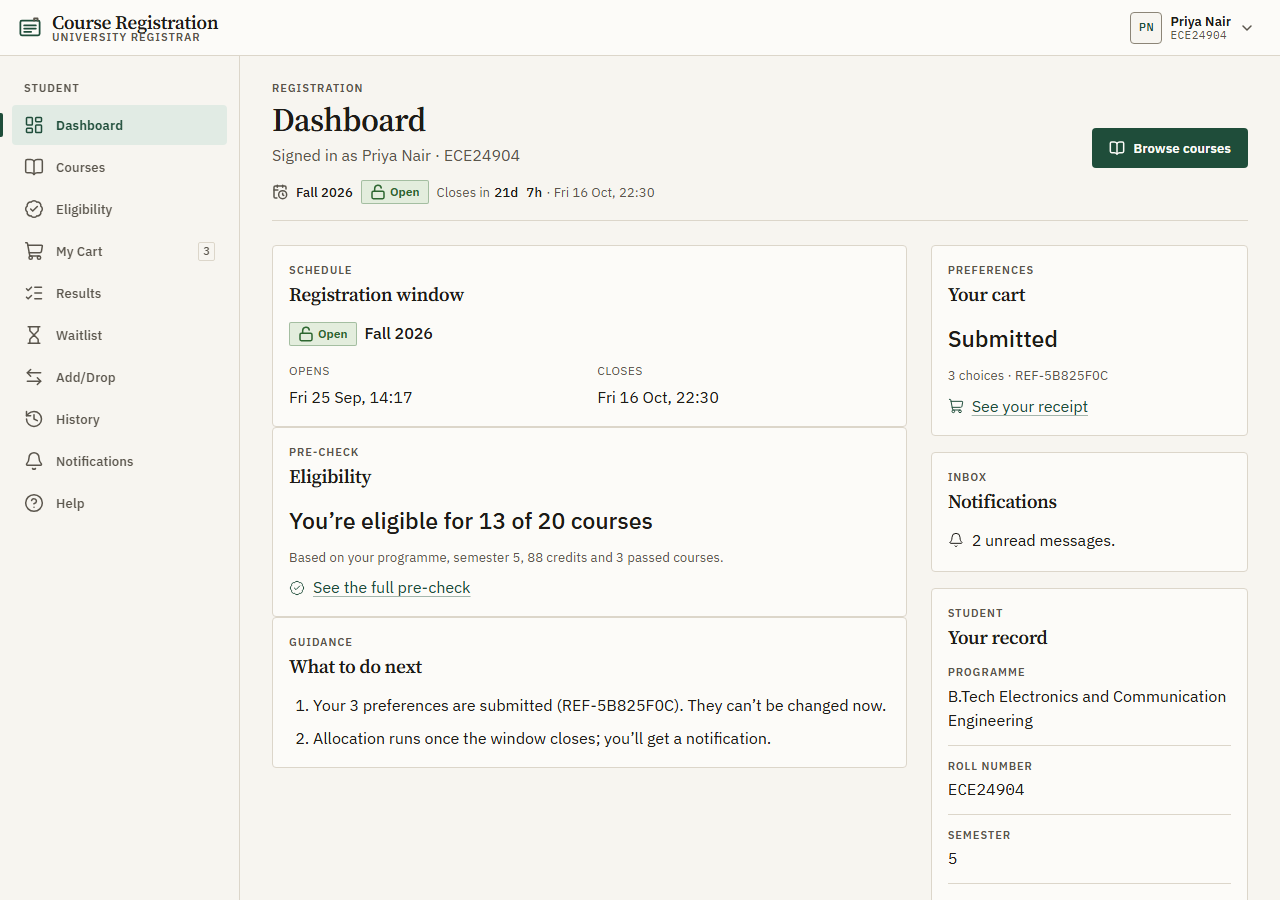
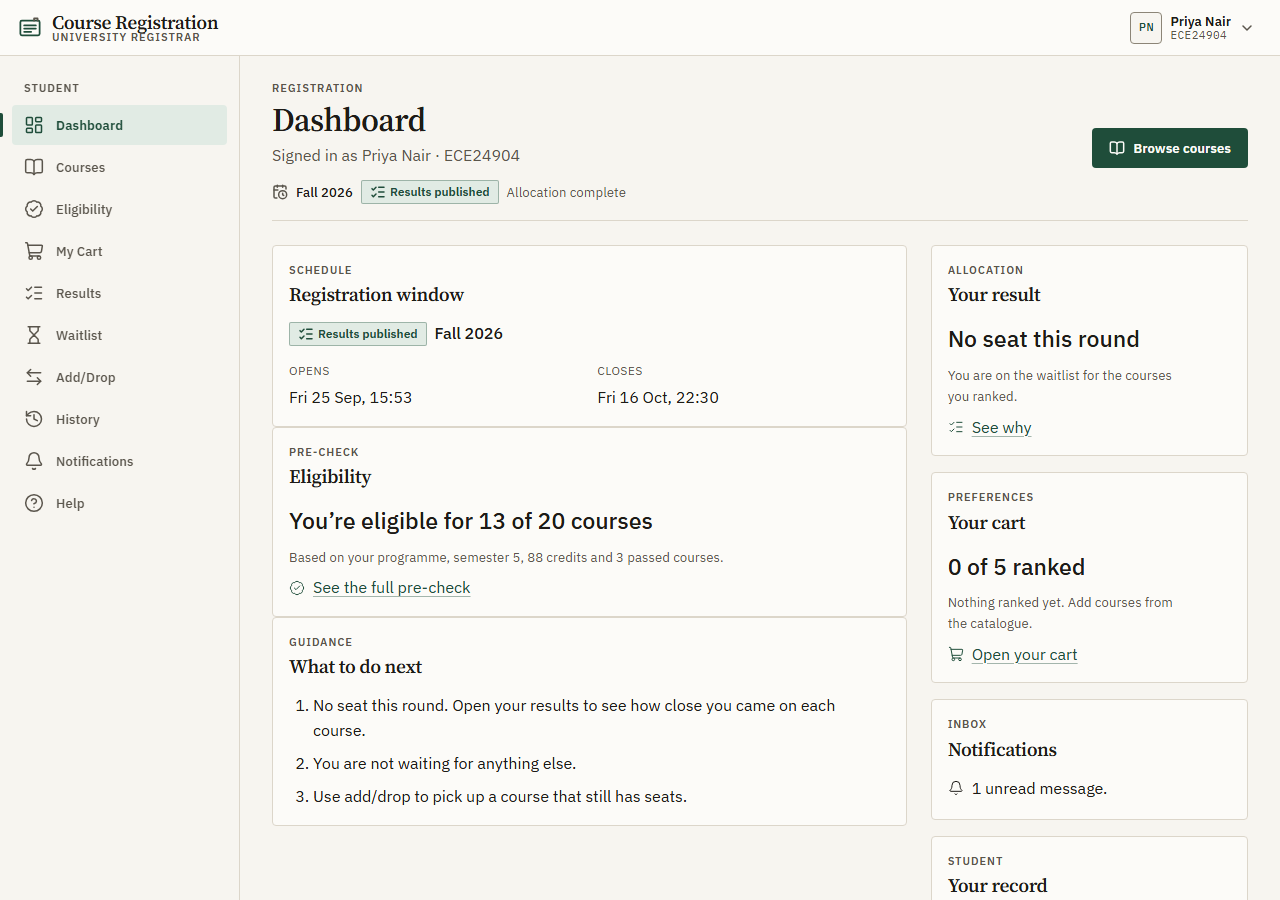
test: add allocation UI tests and fix a misleading results sentence
The design review found a real wording bug. `finalRank` is a student's
place among EVERYONE who ranked a course, including the many who were
given something they ranked higher and so never competed for a seat here.
"You came 77th of 95 for CS404, and one of the 25 seats is yours" is
literally true and reads as a contradiction.

The student-facing sentences now use the numbers that mean what they sound
like — how many wanted it, how many seats there were, the cut-off, and the
queue position — and a test asserts no "Nth of M" phrasing can come back.
`finalRank` stays in the data, where the unique-per-course constraint and
the admin view need it.

Tests: the explanation formatter over every member of the union including
the brief's own example sentence, the results page in all four states, and
the admin page for each window status, the comparison table (including
that "better" is said in words, not colour), the confirm-once dialog, its
cancel path and a server refusal.

Also extends scripts/screenshot.mjs for the allocation pages. Two bugs in
it: it photographed skeletons because CSS Modules hashes keyframe names
too, so "is the pulse animation still running" has to match a substring;
and a stage with no editable cart now skips those shots with a note rather
than failing the run.

diff --git a/frontend/src/pages/student/StudentDashboardPage.test.tsx b/frontend/src/pages/student/StudentDashboardPage.test.tsx
@@ -2,15 +2,17 @@ import { screen, waitFor, within } from '@testing-library/react';
 import userEvent from '@testing-library/user-event';
 import { beforeEach, describe, expect, it, vi } from 'vitest';
 import * as apiClientModule from '../../api/apiClient';
+import * as allocationApi from '../../api/allocationApi';
 import * as courseApi from '../../api/courseApi';
 import * as eligibilityApi from '../../api/eligibilityApi';
 import { expectNoA11yViolations } from '../../test/axe';
 import { fallWindow, ok, SERVER_TIME } from '../../test/catalogueFixtures';
-import { eligibilityOverview } from '../../test/registrationFixtures';
+import { eligibilityOverview, pendingResults } from '../../test/registrationFixtures';
 import { renderRoute } from '../../test/renderRoute';
 import { StudentDashboardPage } from './StudentDashboardPage';
 
 vi.mock('../../api/courseApi', () => ({ getCurrentWindow: vi.fn() }));
+vi.mock('../../api/allocationApi', () => ({ getMyAllocationResults: vi.fn() }));
 vi.mock('../../api/eligibilityApi', () => ({ getEligibility: vi.fn() }));
 vi.mock('../../api/apiClient', () => ({
   apiClient: { get: vi.fn() },
@@ -31,6 +33,7 @@ vi.mock('../../hooks/useAuth', () => ({
 const windowApi = vi.mocked(courseApi);
 const eligibility = vi.mocked(eligibilityApi);
 const client = vi.mocked(apiClientModule.apiClient);
+const allocation = vi.mocked(allocationApi);
 
 const failure = (message: string) => ({ success: false as const, data: null, message });
 
@@ -59,18 +62,20 @@ describe('StudentDashboardPage', () => {
     );
     eligibility.getEligibility.mockResolvedValue(ok(eligibilityOverview));
     client.get.mockResolvedValue({ success: true, data: { unread: 3 } });
+    allocation.getMyAllocationResults.mockResolvedValue(ok(pendingResults));
   });
 
-  it('loads the window, eligibility and notifications together', async () => {
+  it('loads every section together, not one after another', async () => {
     renderDashboard();
 
     expect(await screen.findByText('You’re eligible for 1 of 3 courses')).toBeInTheDocument();
     expect(card('Registration window').getByText('Fall 2026')).toBeInTheDocument();
     expect(card('Notifications').getByText('3 unread messages.')).toBeInTheDocument();
-    // All three requests went out; none waited for the others.
+    // Every request went out; none waited for the others.
     expect(windowApi.getCurrentWindow).toHaveBeenCalledOnce();
     expect(eligibility.getEligibility).toHaveBeenCalledOnce();
     expect(client.get).toHaveBeenCalledOnce();
+    expect(allocation.getMyAllocationResults).toHaveBeenCalledOnce();
   });
 
   it('keeps the other sections when one of them fails', async () => {
@@ -107,6 +112,7 @@ describe('StudentDashboardPage', () => {
     // The healthy sections were not reloaded.
     expect(windowApi.getCurrentWindow).toHaveBeenCalledOnce();
     expect(client.get).toHaveBeenCalledOnce();
+    expect(allocation.getMyAllocationResults).toHaveBeenCalledOnce();
   });
 
   it('shows what to do next for an open window', async () => {

diff --git a/frontend/src/utils/allocationText.ts b/frontend/src/utils/allocationText.ts
@@ -74,20 +74,24 @@ export function explainResult(explanation: AllocationExplanation): string[] {
     cutoffScore === null
       ? null
       : `${capacity} ${capacity === 1 ? 'seat' : 'seats'} went to applicants with scores of ${cutoffScore} or higher.`;
+  const competition = `${applicants} students ranked ${course.code}, for ${capacity} ${capacity === 1 ? 'seat' : 'seats'}.`;
 
+  // `finalRank` is a student's place among EVERYONE who ranked the course,
+  // including the many who were given something they ranked higher and so
+  // never competed for a seat here. Saying "you came 77th of 95, and one of
+  // the 25 seats is yours" is true and reads as a contradiction, so the
+  // student-facing sentences use the numbers that mean what they sound like:
+  // how many wanted it, how many seats there were, the cut-off, and the
+  // queue position.
   switch (explanation.type) {
     case 'ALLOCATED':
-      return [
-        ranked,
-        ...(scored ? [scored] : []),
-        `You came ${ordinal(explanation.finalRank)} of ${applicants} for ${course.code}, and one of the ${capacity} seats is yours.`,
-      ];
+      return [ranked, ...(scored ? [scored] : []), competition, 'One of them is yours.'];
 
     case 'WAITLISTED':
       return [
         ranked,
         ...(scored ? [scored] : []),
-        ...(cutoff ? [cutoff] : [`All ${capacity} seats were taken.`]),
+        ...(cutoff ? [cutoff] : [`Every seat was taken.`]),
         `You are ${ordinal(explanation.waitlistPosition)} in the queue and move up automatically if a seat opens.`,
       ];
 
@@ -102,8 +106,8 @@ export function explainResult(explanation: AllocationExplanation): string[] {
       return [
         ranked,
         ...(scored ? [scored] : []),
-        ...(cutoff ? [cutoff] : [`All ${capacity} seats were taken.`]),
-        `You came ${ordinal(explanation.finalRank)} of ${applicants}.`,
+        competition,
+        ...(cutoff ? [cutoff] : [`Every seat was taken.`]),
       ];
 
     case 'NOT_ALLOCATED_INELIGIBLE':

diff --git a/frontend/src/utils/allocationText.test.ts b/frontend/src/utils/allocationText.test.ts
@@ -101,6 +101,15 @@ describe('every explanation type', () => {
     );
   });
 
+  it('never says a rank that reads as a contradiction against the seats', () => {
+    // 27th of 116 AND one of 20 seats is true but looks impossible: most
+    // higher-scoring applicants were given a course they ranked above this.
+    const sentences = explainResult(EXAMPLES.ALLOCATED).join(' ');
+    expect(sentences).not.toMatch(/\d+(st|nd|rd|th) of \d+/);
+    expect(sentences).toContain('113 students ranked CS401, for 20 seats.');
+    expect(sentences).toContain('One of them is yours.');
+  });
+
   it('claims no score for a method that does not score', () => {
     const fcfs: AllocationExplanation = { type: 'NOT_ALLOCATED_FULL', ...facts, score: null };
     expect(explainResult(fcfs).join(' ')).not.toContain('score for this course');

diff --git a/frontend/src/components/StatusBadge/StatusBadge.test.tsx b/frontend/src/components/StatusBadge/StatusBadge.test.tsx
@@ -26,7 +26,7 @@ describe('StatusBadge', () => {
     const entries = kinds.flatMap((kind) => Object.values(STATUS_PRESENTATION[kind]));
 
     // 3 allocation + 2 enrollment + 3 waitlist + 2 submission + 4 window + 2 eligibility
-    expect(entries).toHaveLength(21);
+    expect(entries).toHaveLength(25);
     for (const entry of entries) {
       expect(entry.label.trim()).not.toBe('');
       expect(entry.icon).toBeDefined();
